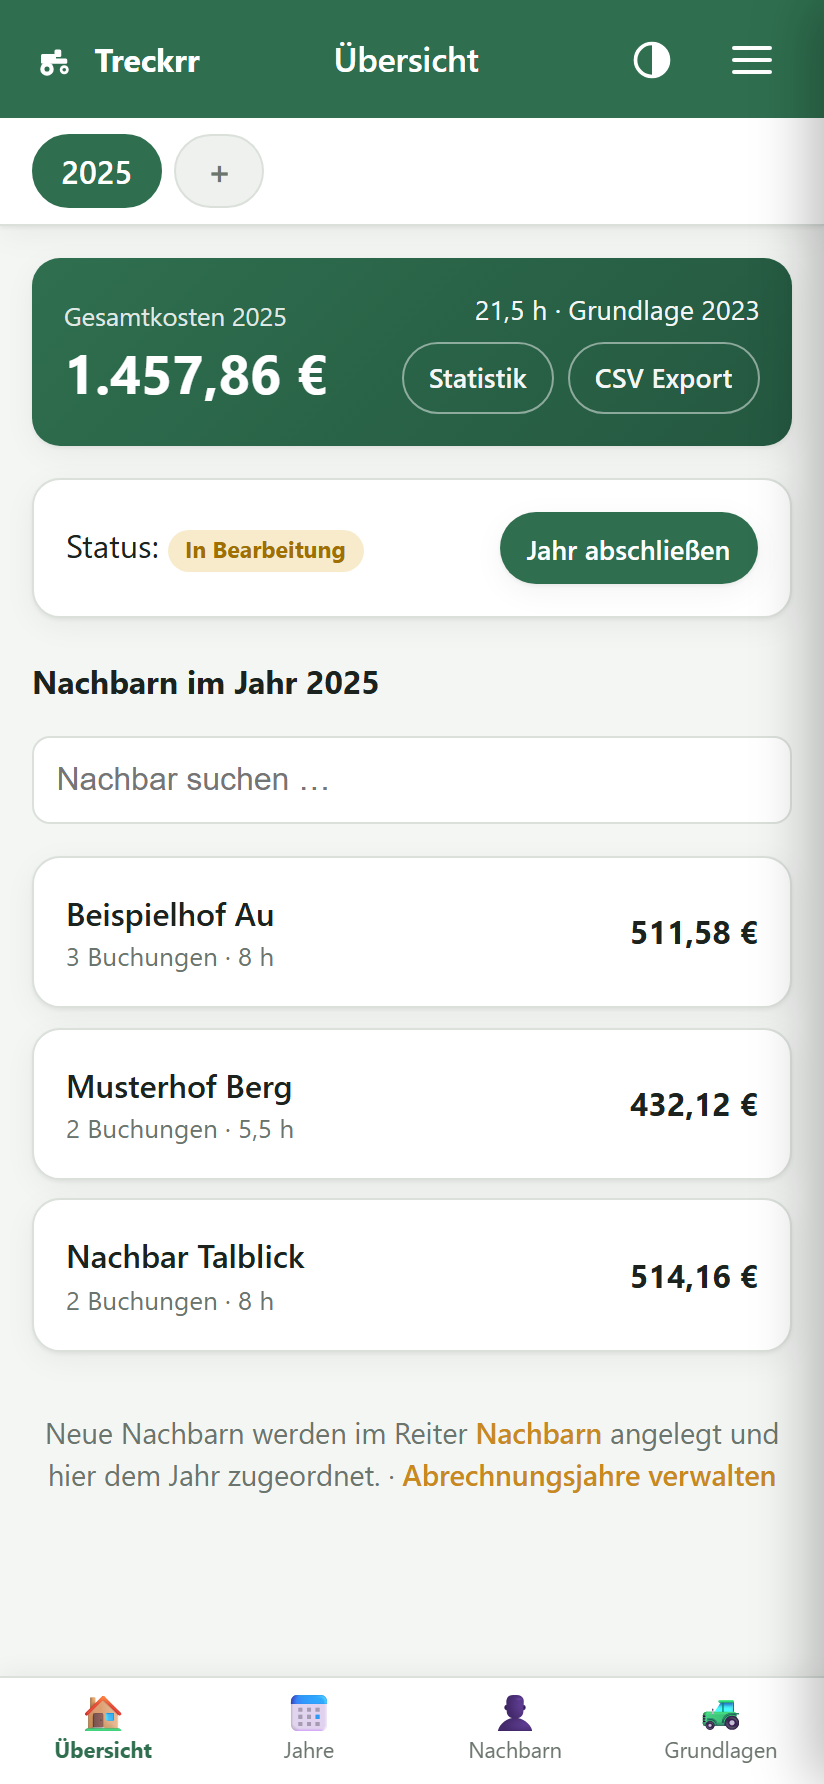
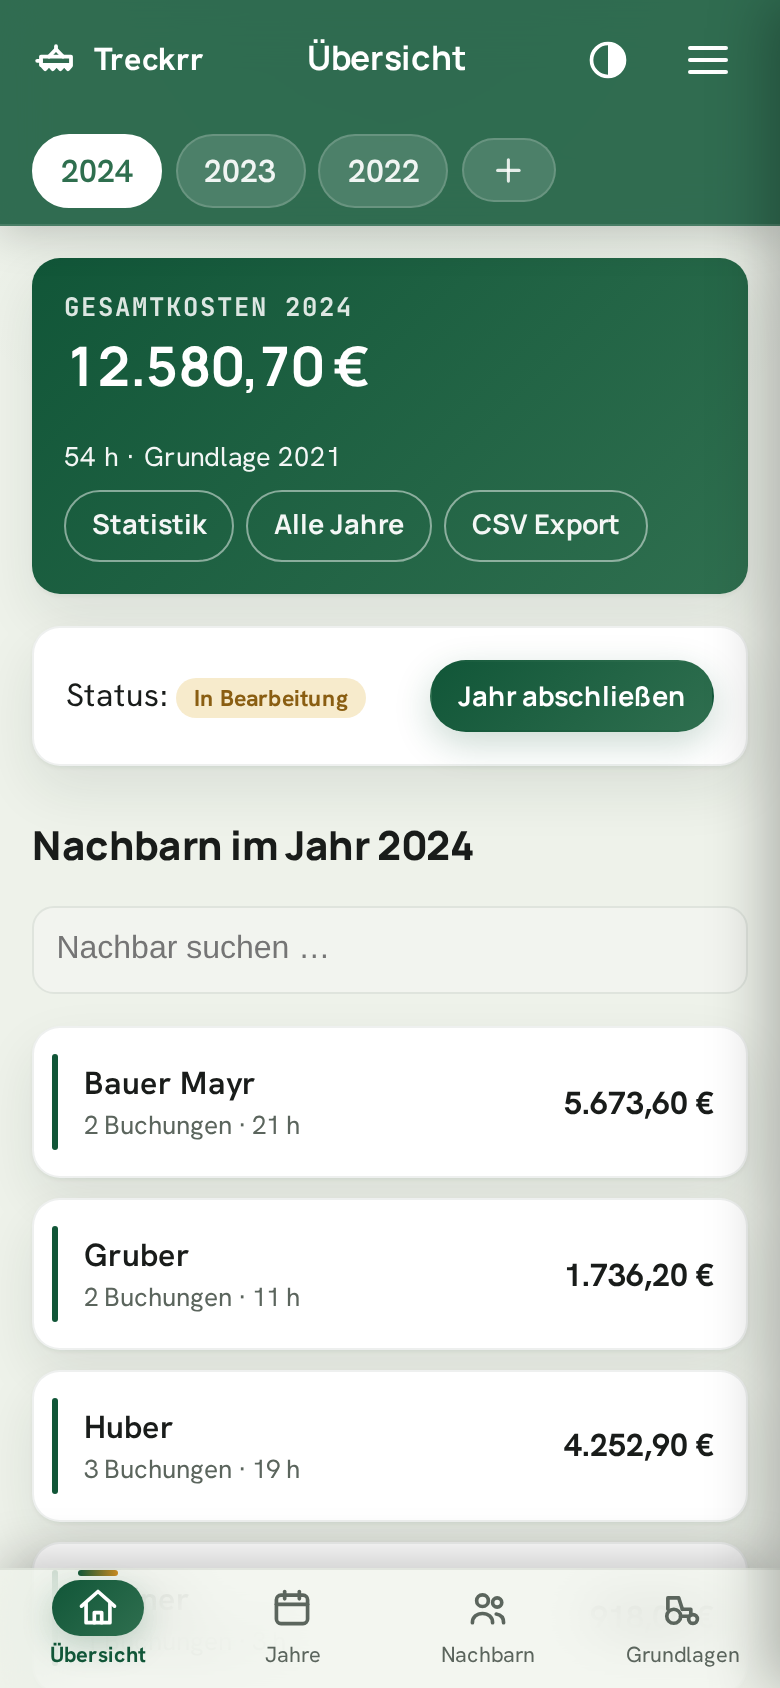
docs: refresh screenshots to current UI + add Verrechnung & Beleg
The screenshots predated ~76 UI commits (the Agro-Modernist redesign:
self-hosted fonts, flat cards, gradient bars, line icons, redesigned login,
sparkline stats, side drawer). Regenerate all six against the current build and
add two shots for features that had none: the running account (Verrechnung) and
the shareable receipt (Beleg).

Captured at a 390px phone viewport (2x) on a seeded demo dataset (one rate basis
with tractors/machines/rigs, four neighbours, three billing years with in-year
bookings, ledger entries, completed years with payment status).

Also fix the CI section: drop the non-existent CodeQL workflow claim and name
the actual workflow files (ci, security, dependency-review, gitleaks, deadcode,
docker-publish).

diff --git a/README.md b/README.md
@@ -44,16 +44,18 @@ receipt.
 ## Screenshots
 
 <p align="center">
-  <img src="docs/img/login.png" width="240" alt="Login with password + passkey">
-  <img src="docs/img/dashboard.png" width="240" alt="Billing-year overview">
-  <img src="docs/img/menu.png" width="240" alt="Side menu / drawer">
+  <img src="docs/img/login.png" width="200" alt="Login — password + passkey">
+  <img src="docs/img/dashboard.png" width="200" alt="Billing-year dashboard">
+  <img src="docs/img/neighbor.png" width="200" alt="Neighbour — balance & new booking">
+  <img src="docs/img/verrechnung.png" width="200" alt="Bookings & running account (Verrechnung)">
 </p>
 <p align="center">
-  <img src="docs/img/neighbor.png" width="240" alt="Neighbour bookings">
-  <img src="docs/img/stats.png" width="240" alt="Statistics and charts">
-  <img src="docs/img/dashboard-dark.png" width="240" alt="Dark mode">
+  <img src="docs/img/beleg.png" width="200" alt="Shareable receipt (Beleg)">
+  <img src="docs/img/stats.png" width="200" alt="Statistics — KPIs & charts">
+  <img src="docs/img/menu.png" width="200" alt="Side-drawer navigation">
+  <img src="docs/img/dashboard-dark.png" width="200" alt="Dark mode">
 </p>
-<p align="center"><sub>Mobile-first PWA · German UI · light &amp; dark themes · password + TOTP or one-tap passkey login · exact-decimal billing.</sub></p>
+<p align="center"><sub>Mobile-first PWA · German UI · light &amp; dark themes · password + TOTP or one-tap passkey login · exact-decimal billing with running-account offset (Verrechnung) and a shareable receipt.</sub></p>
 
 ---
 
@@ -415,13 +417,12 @@ See [CONTRIBUTING.md](CONTRIBUTING.md) to get involved.
 
 GitHub workflows under `.github/workflows/`:
 
-- **CI** — `go vet`, tests with the race detector, build, and `golangci-lint`.
-- **Security** — `gosec` (static analysis) and `govulncheck` (known CVEs).
-- **CodeQL** — semantic scanning for Go, JavaScript and Actions.
-- **Dependency review** — on pull requests.
-- **GitSecret** — `gitleaks` scans the full git history for leaked secrets.
-- **DeadCode** — fails the build on unreachable functions.
-- **Docker** — builds the multi-arch image and pushes it to GHCR.
+- **CI** (`ci.yml`) — `go vet`, tests with the race detector, build, and `golangci-lint`.
+- **Security** (`security.yml`) — `gosec` (static analysis) and `govulncheck` (known CVEs).
+- **Dependency review** (`dependency-review.yml`) — on pull requests.
+- **Gitleaks** (`gitleaks.yml`) — scans the full git history for leaked secrets.
+- **DeadCode** (`deadcode.yml`) — fails the build on unreachable functions.
+- **Docker** (`docker-publish.yml`) — builds the multi-arch image and pushes it to GHCR.
 
 **Dependabot** keeps Go modules, GitHub Actions and the Docker base image current.
 Vulnerability reports: [SECURITY.md](SECURITY.md).
